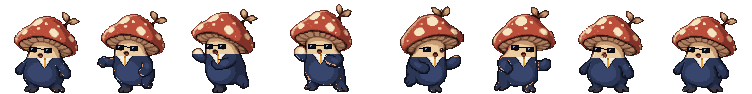
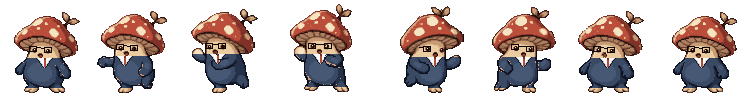
Champi de traje con el diseño nuevo: reposo de 16 cuadros y mismos colores al caminar y al agarrarlo
Claude-Session: https://claude.ai/code/session_01C2SB4sKzG1dEa9CnAVBHhq

diff --git a/css/styles.css b/css/styles.css
@@ -633,60 +633,17 @@ html[data-theme="light"] {
   .hero-top .wordmark > span:last-child, .bar .wordmark > span:last-child { display: none; } /* solo el símbolo */
 }
 
-/* Champi de traje y gafas en el modo moderno (sprites de tools/champi_traje.py) */
-[data-theme="light"] .champi-sprite { background-image: url("../assets/img/champi/idle-traje.webp"); }
+/* Champi de traje y gafas en el modo moderno (tools/champi_traje.py): quieto tiene 16 cuadros */
+[data-theme="light"] .champi-sprite { background-image: url("../assets/img/champi/idle-traje.webp"); background-size: 1408px 88px; animation: champi-steps16 2s steps(16) infinite; }
+@keyframes champi-steps16 { to { background-position-x: -1408px; } }
 [data-theme="light"] .champi.is-walk .champi-sprite { background-image: url("../assets/img/champi/walk-traje.webp"); }
-[data-theme="light"] .champi.is-held .champi-sprite, [data-theme="light"] .champi.is-wave .champi-sprite { background-image: url("../assets/img/champi/attack-traje.webp"); }
-
-/* ================= MODO CLARO · acabado refinado ================= */
-.hero-badge { display: none; }
-[data-theme="light"] .hero-badge {
-  display: inline-flex; align-items: center; gap: 10px; margin: 6px 0 4px; padding: 7px 14px 7px 10px; border-radius: 999px;
-  font: 600 13px/1 var(--text); letter-spacing: .02em; color: var(--muted); background: rgba(255, 255, 255, .75);
-  box-shadow: 0 0 0 1px var(--line), 0 6px 18px -10px rgba(40, 30, 10, .25);
+[data-theme="light"] .champi.is-held .champi-sprite, [data-theme="light"] .champi.is-wave .champi-sprite { background-image: url("../assets/img/champi/attack-traje.webp"); background-size: 704px 88px; }
+@media (max-width: 680px) {
+  [data-theme="light"] .champi-sprite { background-size: 768px 48px; animation-name: champi-steps16-s; }
+  @keyframes champi-steps16-s { to { background-position-x: -768px; } }
+  [data-theme="light"] .champi.is-held .champi-sprite, [data-theme="light"] .champi.is-wave .champi-sprite { background-size: 384px 48px; animation-name: champi-steps-s; }
 }
-[data-theme="light"] .hero-badge span { width: 8px; height: 8px; border-radius: 50%; background: linear-gradient(135deg, #ffd27a, #e2742a); box-shadow: 0 0 0 4px rgba(232, 163, 58, .18); }
-[data-theme="light"] .mark--hero { width: clamp(96px, 9vw, 132px); height: clamp(96px, 9vw, 132px); filter: drop-shadow(0 18px 30px rgba(226, 116, 42, .25)); }
-[data-theme="light"] .hero-title { font-size: clamp(52px, 8vw, 120px); line-height: .95; margin-top: 6px; }
-[data-theme="light"] .hero-slogan { font-weight: 600; letter-spacing: -0.01em; }
-[data-theme="light"] .hero-lede { letter-spacing: -0.01em; }
-[data-theme="light"] .hero-actions .btn:first-child::after { content: "→"; font-weight: 700; transition: transform .3s var(--ease); }
-[data-theme="light"] .hero-actions .btn:first-child:hover::after { transform: translateX(4px); }
 
-/* títulos de sección: rótulo numerado y letra grande y compacta */
-[data-theme="light"] main { counter-reset: sec; }
-[data-theme="light"] .h-xl { font-size: clamp(38px, 4.6vw, 68px); letter-spacing: -0.045em; line-height: 1; }
-[data-theme="light"] section .h-xl::before {
-  counter-increment: sec; content: counter(sec, decimal-leading-zero);
-  display: flex; align-items: center; gap: 12px; margin-bottom: 18px;
-  font: 700 13px/1 var(--text); letter-spacing: .14em; color: var(--gold-text);
-}
-[data-theme="light"] section .h-xl::after { content: none; }
-[data-theme="light"] .game-title { color: var(--ink); }
-[data-theme="light"] .work, [data-theme="light"] .services, [data-theme="light"] .tpv, [data-theme="light"] .game,
-[data-theme="light"] .voices, [data-theme="light"] .process, [data-theme="light"] .quote { border-top: 1px solid var(--line); }
-
-/* filtros: control segmentado */
-[data-theme="light"] .filters { padding: 4px; gap: 2px; border-radius: 999px; background: var(--surface); box-shadow: 0 0 0 1px var(--line); }
-[data-theme="light"] .filters button { background: transparent; }
-[data-theme="light"] .filters button[aria-pressed="true"] { background: var(--ink); color: #fff; }
-
-/* tarjetas: se elevan con suavidad */
-[data-theme="light"] .project, [data-theme="light"] .svc li, [data-theme="light"] .voice { background: var(--surface); transition: transform .5s var(--ease), box-shadow .5s var(--ease); }
-[data-theme="light"] .project:hover, [data-theme="light"] .svc li:hover, [data-theme="light"] .voice:hover {
-  transform: translateY(-4px); box-shadow: 0 0 0 1px var(--line), 0 30px 60px -30px rgba(40, 30, 10, .3);
-}
-[data-theme="light"] .project-main, [data-theme="light"] .device { border-radius: 16px; box-shadow: 0 0 0 1px var(--line); }
-[data-theme="light"] .work { background: var(--bg); }
-[data-theme="light"] .svc { counter-reset: svc; gap: 14px; }
-[data-theme="light"] .svc li { position: relative; padding: 30px 28px; border-radius: 20px; }
-[data-theme="light"] .svc li::after { counter-increment: svc; content: counter(svc, decimal-leading-zero); position: absolute; top: 28px; right: 26px; font: 600 12px/1 var(--text); letter-spacing: .1em; color: var(--muted); opacity: .7; }
-[data-theme="light"] .voice { border-radius: 22px; }
-[data-theme="light"] .voice blockquote p { letter-spacing: -0.01em; }
-[data-theme="light"] .calc-result { background: var(--surface); }
-[data-theme="light"] .contact { box-shadow: 0 0 0 1px var(--line); }
-[data-theme="light"] .footer { background: var(--surface); }
-[data-theme="light"] .chip input:checked + span, [data-theme="light"] .seg button[aria-selected="true"] { background: var(--ink); color: #fff; }
 /* Champi señala el botón de modo */
 .theme-btn.is-hint { color: var(--ink); animation: hint-ring 1.3s ease-out 4; }
 @keyframes hint-ring { 0% { box-shadow: 0 0 0 0 rgba(232, 163, 58, .75); } 100% { box-shadow: 0 0 0 16px rgba(232, 163, 58, 0); } }

diff --git a/en/index.html b/en/index.html
@@ -23,7 +23,7 @@
   <link rel="preconnect" href="https://fonts.googleapis.com">
   <link rel="preconnect" href="https://fonts.gstatic.com" crossorigin>
   <link href="https://fonts.googleapis.com/css2?family=Cinzel:wght@500;600;700&family=Manrope:wght@400;500;600;700;800&family=Plus+Jakarta+Sans:wght@400;600;700;800&display=swap" rel="stylesheet">
-  <link rel="stylesheet" href="../css/styles.css?v=20261105-4">
+  <link rel="stylesheet" href="../css/styles.css?v=20261105-5">
   <script type="application/ld+json">
   {
     "@context": "https://schema.org",
@@ -515,6 +515,6 @@
 
   <script>window.va = window.va || function () { (window.vaq = window.vaq || []).push(arguments); };</script>
   <script src="/_vercel/insights/script.js" defer></script>
-  <script src="../js/main.js?v=20261105-4" defer></script>
+  <script src="../js/main.js?v=20261105-5" defer></script>
 </body>
 </html>

diff --git a/index.html b/index.html
@@ -23,7 +23,7 @@
   <link rel="preconnect" href="https://fonts.googleapis.com">
   <link rel="preconnect" href="https://fonts.gstatic.com" crossorigin>
   <link href="https://fonts.googleapis.com/css2?family=Cinzel:wght@500;600;700&family=Manrope:wght@400;500;600;700;800&family=Plus+Jakarta+Sans:wght@400;600;700;800&display=swap" rel="stylesheet">
-  <link rel="stylesheet" href="css/styles.css?v=20261105-4">
+  <link rel="stylesheet" href="css/styles.css?v=20261105-5">
   <script type="application/ld+json">
   {
     "@context": "https://schema.org",
@@ -515,6 +515,6 @@
 
   <script>window.va = window.va || function () { (window.vaq = window.vaq || []).push(arguments); };</script>
   <script src="/_vercel/insights/script.js" defer></script>
-  <script src="js/main.js?v=20261105-4" defer></script>
+  <script src="js/main.js?v=20261105-5" defer></script>
 </body>
 </html>

diff --git a/aviso-legal.html b/aviso-legal.html
@@ -12,7 +12,7 @@
   <link rel="preconnect" href="https://fonts.googleapis.com">
   <link rel="preconnect" href="https://fonts.gstatic.com" crossorigin>
   <link href="https://fonts.googleapis.com/css2?family=Cinzel:wght@600&family=Manrope:wght@400;600;700&family=Plus+Jakarta+Sans:wght@400;600;700;800&display=swap" rel="stylesheet">
-  <link rel="stylesheet" href="css/styles.css?v=20261105-4">
+  <link rel="stylesheet" href="css/styles.css?v=20261105-5">
 </head>
 <body>
   <!-- logo del modo claro: la llama del farol en un círculo -->

diff --git a/cookies.html b/cookies.html
@@ -12,7 +12,7 @@
   <link rel="preconnect" href="https://fonts.googleapis.com">
   <link rel="preconnect" href="https://fonts.gstatic.com" crossorigin>
   <link href="https://fonts.googleapis.com/css2?family=Cinzel:wght@600&family=Manrope:wght@400;600;700&family=Plus+Jakarta+Sans:wght@400;600;700;800&display=swap" rel="stylesheet">
-  <link rel="stylesheet" href="css/styles.css?v=20261105-4">
+  <link rel="stylesheet" href="css/styles.css?v=20261105-5">
 </head>
 <body>
   <!-- logo del modo claro: la llama del farol en un círculo -->

diff --git a/privacidad.html b/privacidad.html
@@ -12,7 +12,7 @@
   <link rel="preconnect" href="https://fonts.googleapis.com">
   <link rel="preconnect" href="https://fonts.gstatic.com" crossorigin>
   <link href="https://fonts.googleapis.com/css2?family=Cinzel:wght@600&family=Manrope:wght@400;600;700&family=Plus+Jakarta+Sans:wght@400;600;700;800&display=swap" rel="stylesheet">
-  <link rel="stylesheet" href="css/styles.css?v=20261105-4">
+  <link rel="stylesheet" href="css/styles.css?v=20261105-5">
 </head>
 <body>
   <!-- logo del modo claro: la llama del farol en un círculo -->

diff --git a/tools/champi_traje.py b/tools/champi_traje.py
@@ -1,5 +1,9 @@
 #!/usr/bin/env python3
-"""Viste a Champi para el modo moderno: gafas oscuras, traje azul marino, camisa, corbata dorada y zapatos.
+"""Viste a Champi para el modo moderno con el traje del diseño de assets/img/champi/fuente-traje-idle.png.
+
+idle-traje.webp sale de ese diseño (16 cuadros de 82 px, centrados en cuadros de 94 px como los originales).
+walk-traje.webp y attack-traje.webp se pintan sobre los sprites originales con sus mismos colores:
+traje azul, camisa blanca, corbata roja y gafas de montura fina.
 
 Uso:  python3 tools/champi_traje.py
 Lee assets/img/champi/{idle,walk,attack}.webp (cuadros de 94 px) y escribe *-traje.webp al lado.
@@ -11,11 +15,11 @@ from PIL import Image
 ROOT = pathlib.Path(__file__).resolve().parent.parent
 D = ROOT / 'assets/img/champi'
 F = 94
-NAVY = [(22, 27, 44), (33, 41, 66), (44, 55, 88), (56, 69, 108)]  # de sombra a luz
-SHIRT, SHIRT_S = (242, 239, 232), (205, 200, 190)
-TIE, TIE_K = (232, 163, 58), (176, 112, 26)
+NAVY = [(18, 26, 44), (36, 49, 73), (58, 74, 100), (70, 88, 116)]  # de sombra a luz (colores del diseño)
+SHIRT, SHIRT_S = (251, 251, 251), (197, 198, 206)
+TIE, TIE_K = (179, 77, 54), (124, 48, 36)
 SHOE, SHOE_L = (20, 18, 24), (60, 56, 66)
-LENS, RIM, SHINE = (16, 14, 22), (8, 7, 12), (150, 170, 205)
+RIM, SHINE = (13, 6, 4), (251, 251, 251)
 
 # centro de cada ojo en cada cuadro (x, y dentro del cuadro de 94 px), medido sobre los sprites originales
 EYES = {
@@ -63,9 +67,7 @@ def dress(fr):
     for x, y in solid:
         if y < neck: continue
         p = px[x, y]
-        if y >= feet and (is_skin(p) or is_dark(p)):
-            px[x, y] = SHOE + (255,) if (sum(p[:3]) < 420 or y == bottom) else SHOE_L + (255,)
-            continue
+        if y >= feet: continue  # pies descalzos, como en el diseño
         if not is_skin(p) and p[0] < 175 and p[0] > p[2]:  # contornos y costuras marrones → azul muy oscuro
             px[x, y] = (12, 14, 26, 255) if sum(p[:3]) < 200 else NAVY[0] + (255,)
             continue
@@ -90,27 +92,33 @@ def dress(fr):
         for x in (cx, cx + 1):  # corbata de 2 píxeles con nudo
             if x in row and y <= neck + V - 2:
                 px[x, y] = (TIE_K if y <= neck + 1 else TIE) + (255,)
-    # gafas oscuras sobre cada ojo y puente entre ellas
+    # gafas de montura fina: solo el marco, los ojos se ven por dentro
     for ex, ey in centers:
-        for y in range(ey - 2, ey + 3):
+        for y in range(ey - 3, ey + 3):
             for x in range(ex - 4, ex + 4):
-                if px[x, y][3] > 128:
-                    edge = y in (ey - 2, ey + 2) or x in (ex - 4, ex + 3)
-                    px[x, y] = (RIM if edge else LENS) + (255,)
-        for sx, sy in ((ex - 2, ey - 1), (ex - 1, ey - 1), (ex - 2, ey)):
-            if px[sx, sy][3] > 128: px[sx, sy] = SHINE + (255,)
+                if px[x, y][3] > 128 and (y in (ey - 3, ey + 2) or x in (ex - 4, ex + 3)):
+                    px[x, y] = RIM + (255,)
     if len(centers) >= 2:
         (ax, ay), (bx, by) = sorted(centers)[:2]
         for x in range(ax + 4, bx - 3):
-            y = round(ay + (by - ay) * (x - ax) / max(1, bx - ax)) - 1
+            y = round(ay + (by - ay) * (x - ax) / max(1, bx - ax)) - 2
             if px[x, y][3] > 128: px[x, y] = RIM + (255,)
     elif centers:  # de perfil: una patilla hacia atrás
         ex, ey = centers[0]
         for x in range(ex - 8, ex - 4):
-            if 0 <= x < F and px[x, ey - 1][3] > 128: px[x, ey - 1] = RIM + (255,)
+            if 0 <= x < F and px[x, ey - 2][3] > 128: px[x, ey - 2] = RIM + (255,)
     return fr
 
-for name in ('idle', 'walk', 'attack'):
+# quieto: el diseño, centrado en cuadros de 94 px con los pies abajo (como los originales)
+src = Image.open(D / 'fuente-traje-idle.png').convert('RGBA')
+n = src.width // 82
+idle = Image.new('RGBA', (n * F, F))
+for i in range(n):
+    idle.paste(src.crop((i * 82, 0, (i + 1) * 82, 82)), (i * F + 6, F - 82))
+idle.save(D / 'idle-traje.webp', lossless=True)
+print('ok idle', n, 'cuadros')
+
+for name in ('walk', 'attack'):
     im = Image.open(D / f'{name}.webp').convert('RGBA')
     out = Image.new('RGBA', im.size)
     NAME = name
